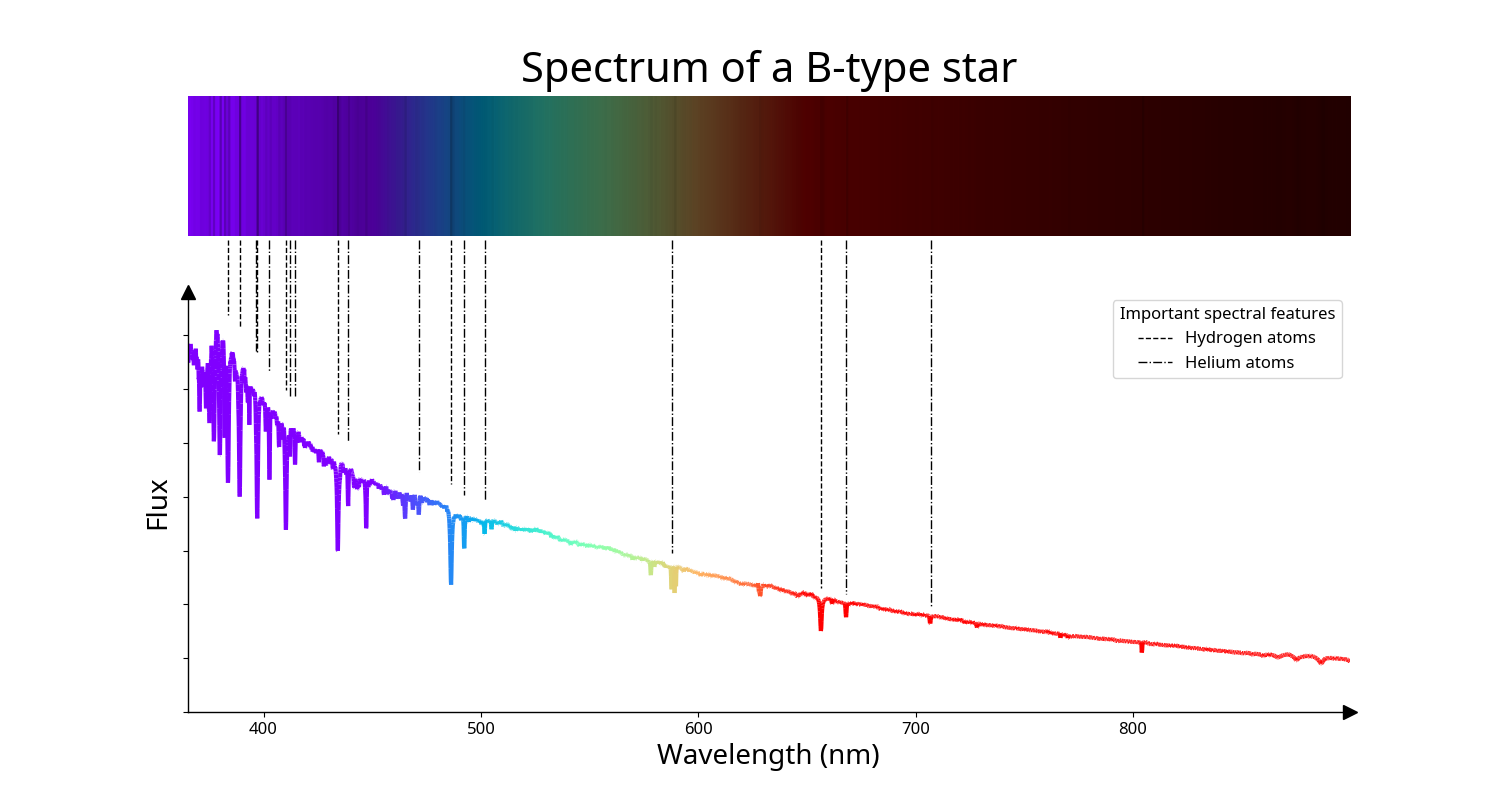
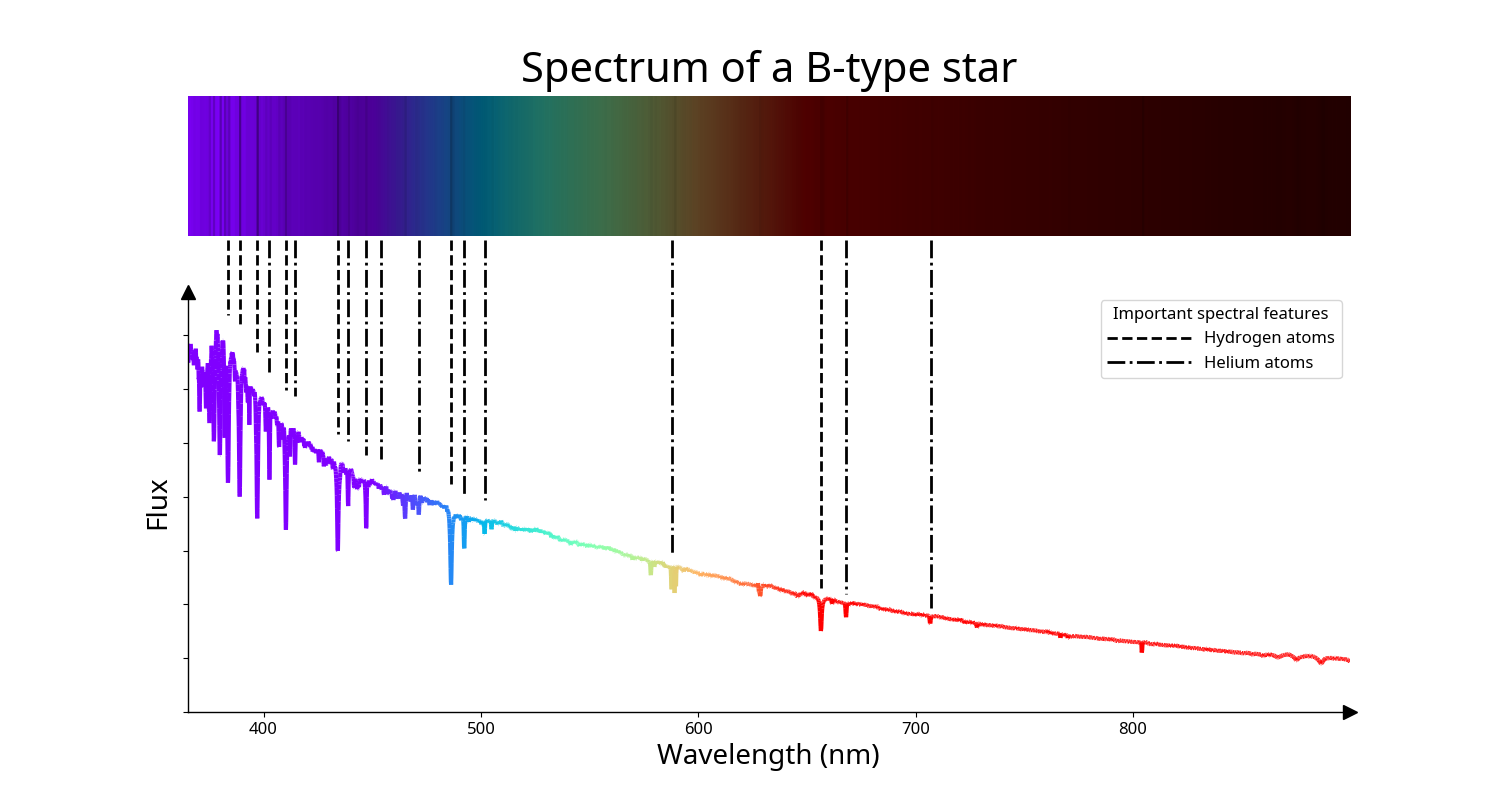
added iron lines
plus hid one sodium doublet in F & G stars and minor changes to HeI & HeII lines

diff --git a/spectral_types_plot.py b/spectral_types_plot.py
@@ -135,11 +135,13 @@ spectral_title_base='spectrum_title'
 #define spectral lines and bands
 all_balmer_lines=SpectralLineSet(text_list['balmer_text'],[656.279,486.135,434.0472,410.1734,397.0075,388.9064,383.5397],'dashed')
 some_balmer_lines=SpectralLineSet(text_list['balmer_text'],[656.279,486.135,434.0472,410.1734],'dashed')
-he_i_lines=SpectralLineSet(text_list['helium_atoms_text'],[396.4729,402.6191,412.0,414.3,438.7929,471.3146,492.1931,501.5678,587.56148,667.81517,706.51771],'dashdot')
-he_ii_lines=SpectralLineSet(text_list['helium_ions_text'],[454.1,468.6],(0, (1, 10)))
+he_i_lines=SpectralLineSet(text_list['helium_atoms_text'],[402.6191,414.4,438.7929,447.1,454.1,471.3146,492.1931,501.5678,587.56148,667.81517,706.51771],'dashdot')
+he_ii_lines=SpectralLineSet(text_list['helium_ions_text'],[420.0,454.1,468.6],(0, (1, 10)))
 ca_i_lines=SpectralLineSet(text_list['calcium_atoms_text'],[422.67,],(0, (3, 10, 1, 10)))
 ca_ii_lines=SpectralLineSet(text_list['calcium_ions_text'],[393.36614,396.84673,849.8018,854.2089,866.2140],'dotted')
-na_i_lines=SpectralLineSet(text_list['sodium_atoms_text'],[588.995 ,589.592,818.33,819.4], (0, (3, 1, 1, 1)))
+some_na_i_lines=SpectralLineSet(text_list['sodium_atoms_text'],[588.995 ,589.592], (0, (3, 1, 1, 1)))
+more_na_i_lines=SpectralLineSet(text_list['sodium_atoms_text'],[588.995 ,589.592,818.33,819.4], (0, (3, 1, 1, 1)))
+fe_i_lines=SpectralLineSet(text_list['iron_atoms_text'],[404.6,438.3,492.1,846.8,868.8],(0, (3, 5, 1, 5, 1, 5)))
 tio_lines=SpectralLineSet(text_list['titanium_oxide_text'],[(617.0,629.0),(632.2,651.2),(656.9,685.2),(705.3,727),(766,786.1)], (0, (5, 1))) #note as TiO has broad bands it is a list of tuples with min and max wavelength
 
 #make colour map
@@ -175,10 +177,15 @@ for row in data_table:
         spectral_features_to_plot.append(ca_i_lines)
     if row['show_ca_ii_lines']:
         spectral_features_to_plot.append(ca_ii_lines)
-    if row['show_na_i_lines']:
-        spectral_features_to_plot.append(na_i_lines)
+    if row['show_some_na_i_lines']:
+        spectral_features_to_plot.append(some_na_i_lines)
+    if row['show_more_na_i_lines']:
+        spectral_features_to_plot.append(more_na_i_lines)
+    if row['show_fe_i_lines']:
+        spectral_features_to_plot.append(fe_i_lines)
     if row['show_tio_lines']:
         spectral_features_to_plot.append(tio_lines)
+
     #print(min(y_tmp),max(y_tmp),np.median(y_tmp),max(y_tmp)/np.median(y_tmp))
     #spectrum = Spectrum1D(flux=y*u.Jy, spectral_axis=x*u.um)
     #g1_fit = fit_generic_continuum(spectrum)
@@ -243,7 +250,7 @@ for row in data_table:
     segments = np.concatenate([points[:-1], points[1:]], axis=1)
     
     norm =plt.Normalize(lambda_blue,lambda_red)
-    linewidths=[1.0] * len(segments)
+    linewidths=[0.5] * len(segments)
     lc = LineCollection(segments, cmap='rainbow', norm=norm,linewidths=linewidths)
     
     lc.set_array(x)
@@ -274,9 +281,9 @@ for row in data_table:
                     line_middle_x.append(line_x)
                     line_y_min=bounds_box[2]+(bounds_box[3]-bounds_box[2]-0.2)*(y_average/(1.1*max(y_tmp)))+additional_offset
                     line_y_max=0.7
-                    line_tmp1 = plt.Line2D((line_x,line_x),(line_y_max,line_y_min), color="k", linewidth=1,linestyle=spectral_feature.linestyle,label=spectral_feature.name)
+                    line_tmp1 = plt.Line2D((line_x,line_x),(line_y_max,line_y_min), color="k", linewidth=2,linestyle=spectral_feature.linestyle,label=spectral_feature.name)
                     fig.add_artist(line_tmp1)
-                line_tmp1 = plt.Line2D((line_middle_x[0],line_middle_x[1]),(line_y_max,line_y_max), color="k", linewidth=1,linestyle=spectral_feature.linestyle,label=spectral_feature.name) 
+                line_tmp1 = plt.Line2D((line_middle_x[0],line_middle_x[1]),(line_y_max,line_y_max), color="k", linewidth=2,linestyle=spectral_feature.linestyle,label=spectral_feature.name) 
                 fig.add_artist(line_tmp1) 
             else:
                 index_tmp = np.argmin(np.abs(np.array(x_tmp)-line_tmp))
@@ -290,9 +297,11 @@ for row in data_table:
                 line_x=(bounds_box[1]-1.24*bounds_box[0])*(line_tmp-lambda_min)/(lambda_max-lambda_min)+1.25*bounds_box[0]
                 line_y_min=bounds_box[2]+(bounds_box[3]-bounds_box[2]-0.2)*(y_average/(1.1*max(y_tmp)))+additional_offset
                 line_y_max=0.7
-                line_tmp1 = plt.Line2D((line_x,line_x),(line_y_max,line_y_min), color="k", linewidth=1,linestyle=spectral_feature.linestyle,label=spectral_feature.name)
+                line_tmp1 = plt.Line2D((line_x,line_x),(line_y_max,line_y_min), color="k", linewidth=2,linestyle=spectral_feature.linestyle,label=spectral_feature.name)
             fig.add_artist(line_tmp1)
-    ax[1].legend(loc=row['legend_location'],title=text_list['spectral_features_title'])
+    legend_tmp=ax[1].legend(loc=row['legend_location'],title=text_list['spectral_features_title'], handlelength=5)
+    leg_lines = legend_tmp.get_lines()
+    plt.setp(leg_lines, linewidth=2)
     #add arrowheads to axes
     ax[1].plot(x.max(),0, '>k',markersize=10, clip_on=False)
     ax[1].plot(x.min(), 1.1*y.max(), '^k',markersize=10, clip_on=False)
@@ -350,7 +359,7 @@ for ind in range(0,len(y_list)):
     lc = LineCollection(segments, cmap='rainbow', norm=norm,linewidths=linewidths)
     
     lc.set_array(x)
-    lc.set_linewidth(3)
+    lc.set_linewidth(1)
     line = ax.add_collection(lc)
     if min(x)<x_min:
         x_min=min(x)
